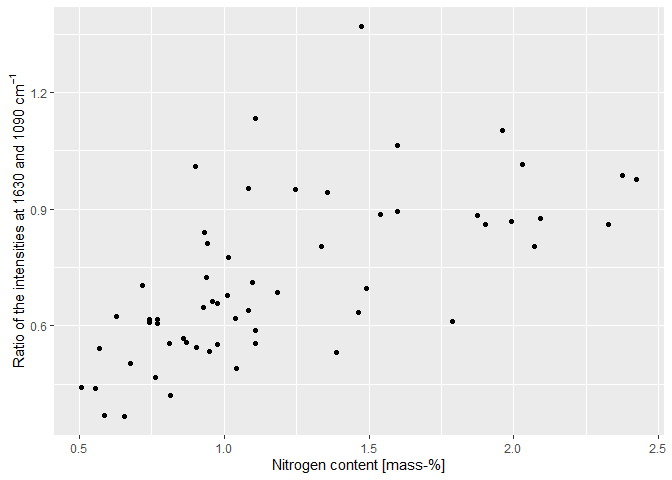
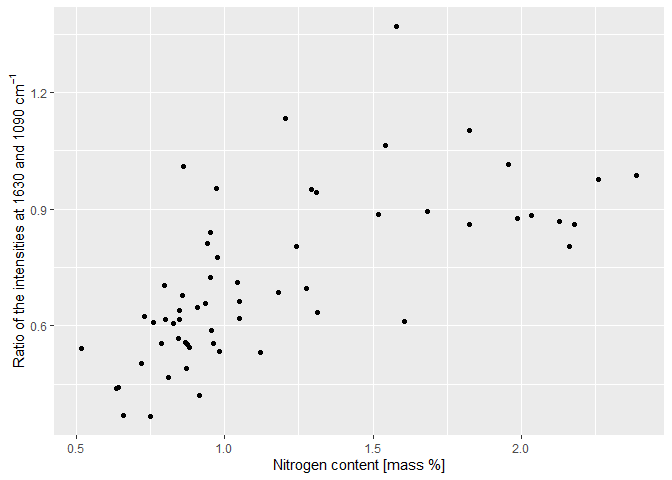
* Update README. * Remove old vignettes.

diff --git a/README.md b/README.md
@@ -20,19 +20,17 @@ The following peat properties can be predicted (note model-specific
 limitations described in the documentation):
 
 - Elemental contents (C, H, N, O, S, P, K, Ti)
-- isotope values
-  (![\delta^{13}](https://latex.codecogs.com/png.image?%5Cdpi%7B110%7D&space;%5Cbg_white&space;%5Cdelta%5E%7B13%7D "\delta^{13}")C
-  and
-  ![\delta^{15}](https://latex.codecogs.com/png.image?%5Cdpi%7B110%7D&space;%5Cbg_white&space;%5Cdelta%5E%7B15%7D "\delta^{15}")N)
+- isotope values ($\delta^{13}$C and $\delta^{15}$N)
 - physical properties (bulk density, volume fraction of solids,
   non-macroporosity, macroporosity, saturated hydraulic conductivity,
   specific heat capacity, dry thermal conductivity)
-- standard Gibbs free energy of formation
-  (![\Delta](https://latex.codecogs.com/png.image?%5Cdpi%7B110%7D&space;%5Cbg_white&space;%5CDelta "\Delta")G![\_\text{f}^0](https://latex.codecogs.com/png.image?%5Cdpi%7B110%7D&space;%5Cbg_white&space;_%5Ctext%7Bf%7D%5E0 "_\text{f}^0"))
+- standard Gibbs free energy of formation ($\Delta$G$_\text{f}^0$)
 - electrochemical properties (electron accepting capacity, electron
   donating capacity)
 - microbial nitrogen content (modified version of the model described in
   Reuter et al. (2020))
+- The degree of decomposition ($\gamma$, the fraction of initial mass
+  lost).
 
 The package also contains functions to predict holocellulose and Klason
 lignin contents (Hodgkins et al. 2018; Teickner and Knorr 2022), but
@@ -50,11 +48,11 @@ remotes::install_github(repo = "henningte/irpeat")
 for handling infrared spectra.
 
 If you want to use the prediction models, you have to install the
-[‘irpeatmodels’](---todo:%20add%20url) package in addition to the
-‘irpeat’ package:
+[‘irpeatmodels’](https://doi.org/10.5281/zenodo.17187912) package in
+addition to the ‘irpeat’ package:
 
 ``` r
-remotes::install_url("---todo:add url", type = "source")
+remotes::install_url("https://zenodo.org/record/17187912/files/irpeatmodels_0.1.0.zip", type = "source")
 ```
 
 ### How to use
@@ -68,8 +66,9 @@ library(irpeat)
 library(ir)
 library(irpeatmodels)
 library(ggplot2)
+#> Warning: package 'ggplot2' was built under R version 4.3.3
 library(units)
-#> udunits database from C:/Users/henni/AppData/Local/R/win-library/4.2/units/share/udunits/udunits2.xml
+#> udunits database from C:/Users/henni/AppData/Local/R/win-library/4.3/units/share/udunits/udunits2.xml
 ```
 
 You can test ‘irpeat’ with sample data from the R package ‘irpeat’:
@@ -89,7 +88,8 @@ irpeat::irpeat_sample_data
 #>  8     9         9             57 <df>        0.490 0.0576 0.00885 0.394 0.0013 
 #>  9    10        10             24 <df>        0.459 0.0560 0.00838 0.454 0      
 #> 10    11        11             25 <df>        0.465 0.0566 0.00723 0.420 0      
-#> # … with 49 more rows, and 2 more variables: d15N <dbl>, d13C <dbl>
+#> # ℹ 49 more rows
+#> # ℹ 2 more variables: d15N <dbl>, d13C <dbl>
 ```
 
 `irpeat_sample_data` contains transmission mid infrared spectra of peat
@@ -99,49 +99,50 @@ Gao, and Knorr (2021) for details).
 A simple workflow could be, for example, to baseline correct the spectra
 (using functions of the package ‘ir’) compute various humification
 indices and Klason lignin and holocellulose mass fractions in the
-samples. We use only the first few spectra from `ir::ir_sample_data` to
-speed the computations a bit up.
+samples.
 
 ``` r
 x <- 
-  irpeat_sample_data %>%                                  # data
+  irpeat_sample_data |>                                  # data
   dplyr::mutate(
     hi_1630_1090 =
-      irpeat_sample_data %>%
-      ir::ir_bc(method = "rubberband") %>%                # baseline correction
-      ir::ir_interpolate(start = NULL, dw = 1) %>%        # interpolation
-      irp_hi(x1 = 1630, x2 = 1090) %>%                    # humification index
+      irpeat_sample_data |>
+      ir::ir_bc(method = "rubberband") |>                # baseline correction
+      ir::ir_interpolate(start = NULL, dw = 1) |>        # interpolation
+      irp_hi(x1 = 1630, x2 = 1090) |>                    # humification index
       dplyr::pull(hi_1630_1090)
-  ) %>%
-  irpeat::irp_nitrogen_content_1(do_summary = TRUE) %>%   # N content
-  irpeat::irp_bulk_density_1(do_summary = TRUE) %>%       # bulk density
-  irpeat::irp_macroporosity_1(do_summary = TRUE)          # macroporosity
+  ) |>
+  ir::ir_interpolate(start = NULL, dw = 1) |>
+  irpeat::irp_nitrogen_content_1(do_summary = TRUE) |>   # N content
+  irpeat::irp_bulk_density_1(do_summary = TRUE) |>       # bulk density
+  irpeat::irp_macroporosity_1(do_summary = TRUE)         # macroporosity
 ```
 
-`x` is identical to `irpeat_sample_data`, but contains additional
-columns for the computed humification indicex (`h1_1630_1090`) and the
+`x` is identical to `irpeat_sample_data`, but contains an additional
+column for the computed humification index (`h1_1630_1090`) and the
 computed nitrogen content (`nitrogen_content_1`)
 
 ``` r
 x
 #> # A tibble: 59 × 18
-#>    id_90 sample_id measurement_id          C        H        N        O        S
-#>    <int>     <int>          <int> (err) [g/… (err) [… (err) [… (err) [… (err) […
-#>  1     1         1             23 0.4790247… 0.05625… 0.00968… 0.39768… 0.00395…
-#>  2     2         2             32 0.4468899… 0.0561(… 0.00478… 0.44283…  8(0)e-5
-#>  3     3         3             38 0.4599222… 0.05598… 0.00788… 0.41248…  8(0)e-5
-#>  4     5         5             52 0.4708597… 0.05853… 0.00755… 0.41433…  8(0)e-5
-#>  5     6         6             54 0.5019724… 0.05495… 0.0127(… 0.3732(… 0.0013(…
-#>  6     7         7             55 0.4844088… 0.0557(… 0.0091(… 0.39185… 0.0012(…
-#>  7     8         8             56 0.4661264… 0.05655… 0.00725… 0.40095…  8(0)e-4
-#>  8     9         9             57 0.4897663… 0.05765… 0.00885… 0.39395… 0.0013(…
-#>  9    10        10             24 0.4594893… 0.05598… 0.00838… 0.45435…     0(0)
-#> 10    11        11             25 0.4647567… 0.05663… 0.00723… 0.42003…     0(0)
-#> # … with 49 more rows, and 10 more variables: d15N <dbl>, d13C <dbl>,
+#>    id_90 sample_id measurement_id spectra           C        H        N        O
+#>    <int>     <int>          <int> <named li> (err) [… (err) [… (err) [… (err) […
+#>  1     1         1             23 <tibble>   0.47902… 0.05625… 0.00968… 0.39768…
+#>  2     2         2             32 <tibble>   0.44688… 0.0561(… 0.00478… 0.44283…
+#>  3     3         3             38 <tibble>   0.45992… 0.05598… 0.00788… 0.41248…
+#>  4     5         5             52 <tibble>   0.47085… 0.05853… 0.00755… 0.41433…
+#>  5     6         6             54 <tibble>   0.50197… 0.05495… 0.0127(… 0.3732(…
+#>  6     7         7             55 <tibble>   0.48440… 0.0557(… 0.0091(… 0.39185…
+#>  7     8         8             56 <tibble>   0.46612… 0.05655… 0.00725… 0.40095…
+#>  8     9         9             57 <tibble>   0.48976… 0.05765… 0.00885… 0.39395…
+#>  9    10        10             24 <tibble>   0.45948… 0.05598… 0.00838… 0.45435…
+#> 10    11        11             25 <tibble>   0.46475… 0.05663… 0.00723… 0.42003…
+#> # ℹ 49 more rows
+#> # ℹ 10 more variables: S (err) [g/g], d15N <dbl>, d13C <dbl>,
 #> #   hi_1630_1090 <numeric>, nitrogen_content_1 (err) [g/g],
 #> #   nitrogen_content_1_in_pd <logical>, bulk_density_1 (err) [g/cm^3],
-#> #   bulk_density_1_in_pd <logical>, spectra <named list>,
-#> #   macroporosity_1 (err) [L/L], macroporosity_1_in_pd <logical>
+#> #   bulk_density_1_in_pd <logical>, macroporosity_1 (err) [L/L],
+#> #   macroporosity_1_in_pd <logical>
 ```
 
 Plot of the humification index (ratio of the intensities at 1420 and
@@ -149,12 +150,12 @@ Plot of the humification index (ratio of the intensities at 1420 and
 content:
 
 ``` r
-x %>%
+x |>
   ggplot(
     aes(
       x = 
-        nitrogen_content_1 %>%
-        units::set_units(value = "%") %>%
+        nitrogen_content_1 |>
+        units::set_units(value = "%") |>
         quantities::drop_quantities(), 
       y = 
         hi_1630_1090
@@ -162,7 +163,7 @@ x %>%
   ) + 
   geom_point() +
   labs(
-    x = "Nitrogen content [mass-%]", 
+    x = "Nitrogen content [mass %]", 
     y = expression("Ratio of the intensities at"~1630~and~1090~cm^{-1})
   )
 ```
@@ -175,26 +176,16 @@ the [quantities](https://github.com/r-quantities/quantities) package):
 ``` r
 x$nitrogen_content_1[1:5]
 #> Units: [g/g]
-#> Errors: 0.001157014 0.000871431 0.001076665 0.001012812 0.001258238
-#>          V1          V2          V3          V4          V5 
-#> 0.010407304 0.005570570 0.008703218 0.007687649 0.012470859
+#> Errors: 0.001997196 0.001589896 0.001854060 0.001789981 0.002276302
+#> [1] 0.010515780 0.006352945 0.008698074 0.008472305 0.012925355
 ```
-
-### Future development
-
-Henning Teickner plans, as part of his PhD project, to extensively
-extent ‘irpeat’ by developing a set of calibration models that can
-predict various peat physicochemical properties from mid infrared
-spectra. These models should be finished by September 2024. Currently, a
-data compendium ([pmird](https://henningte.github.io/pmird/index.html))
-is developed to collect the data required for this task.
 
 ### How to cite
 
 Please cite this R package as:
 
-> Henning Teickner, Suzanne B. Hodgkins (2023). *irpeat: Functions to
-> Analyze Mid Infrared Spectra of Peat Samples*. Accessed 2023-03-18.
+> Henning Teickner, Suzanne B. Hodgkins (2025). *irpeat: Functions to
+> Analyze Mid-Infrared Spectra of Peat Samples*. Accessed 2025-09-23.
 > Online at <https://github.com/henningte/irpeat>.
 
 ### Licenses
@@ -235,14 +226,15 @@ Data and models for the electrochemical accepting and donating
 capacities (EAC, EDC) of peat were derived from Teickner, Gao, and Knorr
 (2022) and Teickner, Gao, and Knorr (2021)
 
-This packages was developed in R (R version 4.2.0 (2022-04-22 ucrt)) (R
+This packages was developed in R (R version 4.3.1 (2023-06-16 ucrt)) (R
 Core Team 2020) using functions from devtools (Wickham et al. 2021),
 usethis (Wickham, Bryan, and Barrett 2022), and roxygen2 (Wickham et al.
 2022).
 
 ### References
 
-<div id="refs" class="references csl-bib-body hanging-indent">
+<div id="refs" class="references csl-bib-body hanging-indent"
+entry-spacing="0">
 
 <div id="ref-Broder.2012" class="csl-entry">
 
@@ -295,7 +287,7 @@ Routine.” *Biogeosciences* 17 (2): 499–514.
 
 Teickner, Henning, Chuanyu Gao, and Klaus-Holger Knorr. 2021.
 “Reproducible Research Compendium with R Code and Data for:
-’Electrochemical Properties of Üeat Particulate Organic Matter on a
+’Electrochemical Properties of Peat Particulate Organic Matter on a
 Global Scale: Relation to Peat Chemistry and Degree of Decomposition’.”
 Zenodo. <https://doi.org/10.5281/zenodo.5792970>.
 
@@ -321,16 +313,17 @@ Matter with Mid Infrared Spectra.” Preprint. Soil and methods.
 
 <div id="ref-Wickham.2022" class="csl-entry">
 
-Wickham, Hadley, Jennifer Bryan, and Malcolm Barrett. 2022. “<span
-class="nocase">usethis</span>: Automate Package and Project Setup.”
+Wickham, Hadley, Jennifer Bryan, and Malcolm Barrett. 2022.
+“<span class="nocase">usethis</span>: Automate Package and Project
+Setup.”
 
 </div>
 
 <div id="ref-Wickham.2022a" class="csl-entry">
 
 Wickham, Hadley, Peter Danenberg, Gábor Csárdi, and Manuel Eugster.
-2022. “<span class="nocase">roxygen2</span>: <span
-class="nocase">In-line</span> Documentation for R.”
+2022. “<span class="nocase">roxygen2</span>:
+<span class="nocase">In-line</span> Documentation for R.”
 
 </div>
 
